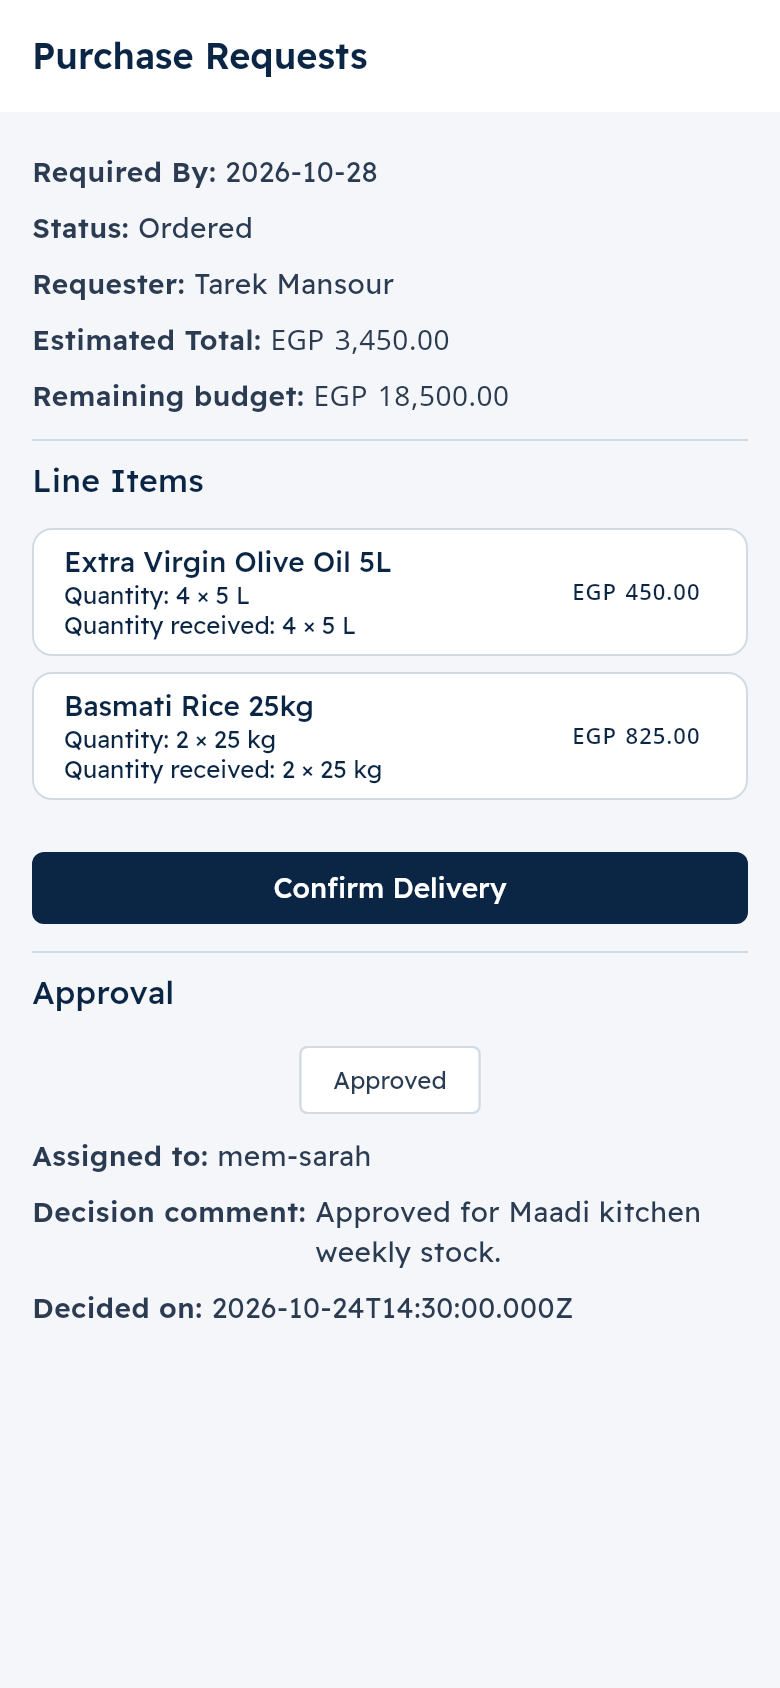
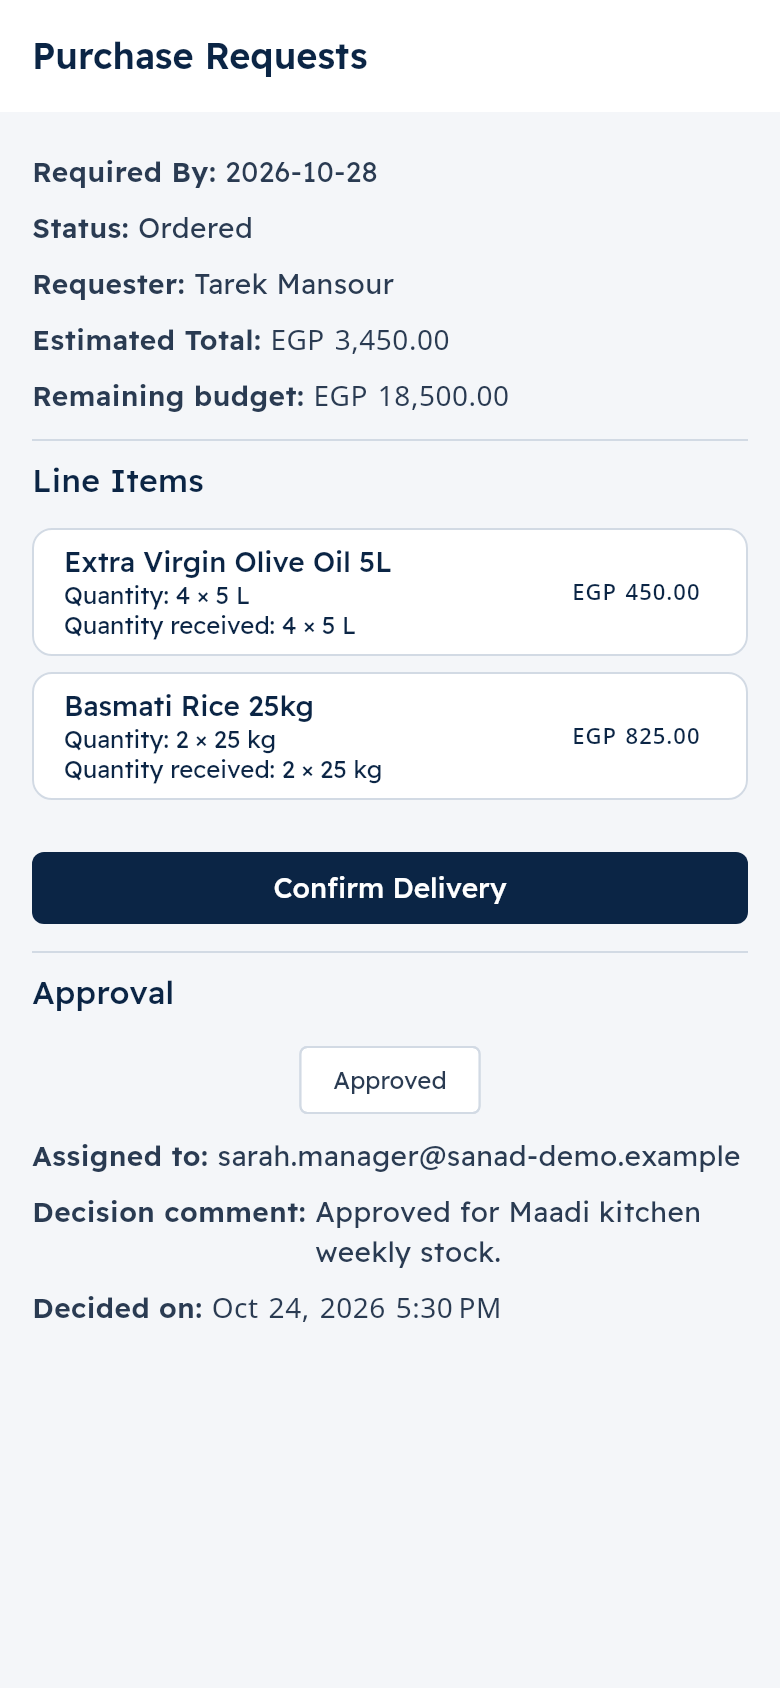
docs(mobile): regenerate 07-request-detail with the approver email and local date (PPS-51)
The capture test now initialises intl's locale date data, as main() does.
Captured with TZ=Africa/Cairo.

Changed region(s): [[0.2769, 0.6777, 0.9538, 0.7085], [0.2769, 0.7701, 0.5538, 0.8009], [0.5846, 0.7701, 0.7385, 0.8009]]

diff --git a/apps/mobile/test/docs/user_doc_screenshots_test.dart b/apps/mobile/test/docs/user_doc_screenshots_test.dart
@@ -9,6 +9,7 @@ import 'package:flutter/material.dart';
 import 'package:flutter/rendering.dart';
 import 'package:flutter/services.dart';
 import 'package:flutter_test/flutter_test.dart';
+import 'package:intl/date_symbol_data_local.dart';
 import 'package:procurepilot_mobile/core/api/approvals_api_client.dart';
 import 'package:procurepilot_mobile/core/api/mobile_api_client.dart';
 import 'package:procurepilot_mobile/core/api/models.dart';
@@ -418,6 +419,7 @@ Future<void> _renderAndCapture({
 
 void main() {
   setUpAll(() async {
+    await initializeDateFormatting();
     await _loadAppFontsAndAssets();
   });
 
